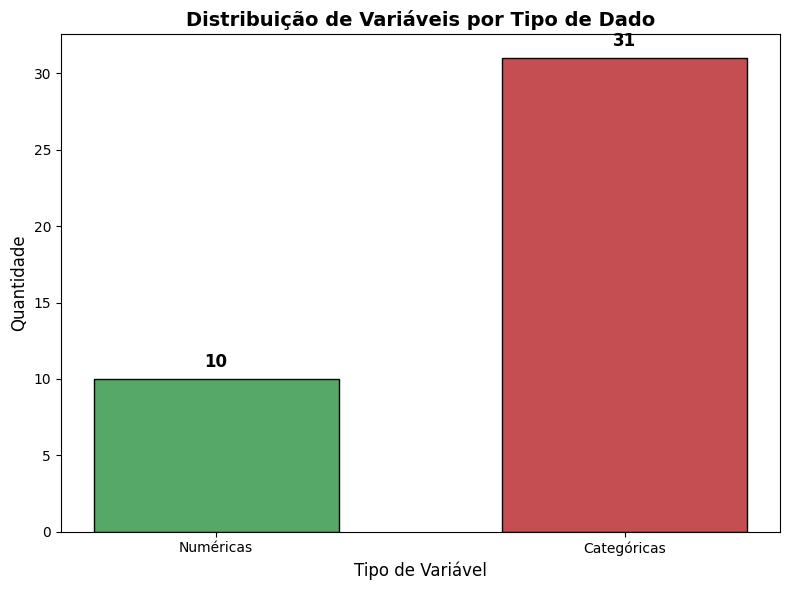
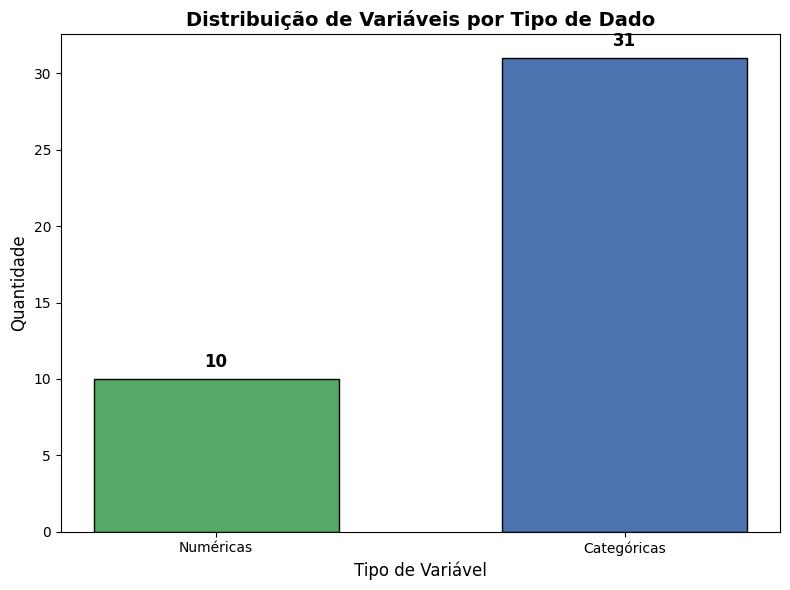
Refatoracao exploracao dados - zoom atributos com valores nulos

Changed region(s): [[0.638, 0.0915, 0.9722, 0.9153]]

diff --git a/pre-processamento/separacao_tipos.py b/pre-processamento/separacao_tipos.py
@@ -5,8 +5,11 @@ import matplotlib.pyplot as plt
 # 1. CONFIGURAÇÕES E CAMINHOS (Constantes)
 # ==========================================
 CAMINHO_ENTRADA = r'C:\Users\vitoria-vaz\estudos\UFU\projeto-graduacao\pg-amamentacao\dataset\dataset_amamentacao_filtrado.csv'
-CAMINHO_GRAFICO_NULOS = 'contagem_valores_nulos.jpg'
-CAMINHO_GRAFICO_TIPOS = 'contagem_tipos_dados.jpg' # Novo caminho adicionado
+
+# Nomes dos arquivos de imagem gerados
+CAMINHO_GRAFICO_NULOS_TODOS = 'contagem_valores_nulos_todos.jpg'
+CAMINHO_GRAFICO_NULOS_FILTRADOS = 'contagem_valores_nulos_filtrados.jpg'
+CAMINHO_GRAFICO_TIPOS = 'contagem_tipos_dados.jpg'
 
 # ==========================================
 # 2. CARREGAMENTO DOS DADOS E INFORMAÇÕES
@@ -20,36 +23,55 @@ print("\n" + "="*50 + "\n")
 # ==========================================
 # 3. ANÁLISE EXPLORATÓRIA: VALORES NULOS
 # ==========================================
-# Configurar o tamanho da figura
-plt.figure(figsize=(12, 6))
 
-# Criar o gráfico de barras ordenado
+# ---------------------------------------------------------
+# 3.1 Gráfico 1: Todos os atributos (Visão Geral)
+# ---------------------------------------------------------
+plt.figure(figsize=(12, 6))
 df.isnull().sum().sort_values(ascending=False).plot(kind='bar', color='#4C72B0', edgecolor='black')
 
-# Adicionar títulos e rótulos
-plt.title('Quantidade de Valores Nulos por Atributo', fontsize=14, fontweight='bold')
+plt.title('Quantidade de Valores Nulos (Todos os Atributos)', fontsize=14, fontweight='bold')
 plt.xlabel('Atributos', fontsize=12)
 plt.ylabel('Quantidade de Valores Nulos', fontsize=12)
 plt.xticks(rotation=90)
 
-# Ajustar layout para não cortar as margens
 plt.tight_layout() 
+plt.savefig(CAMINHO_GRAFICO_NULOS_TODOS, bbox_inches='tight')
+plt.close()
+print(f"Gráfico geral de nulos salvo como '{CAMINHO_GRAFICO_NULOS_TODOS}'!")
 
-# Gerar e salvar o gráfico
-plt.savefig(CAMINHO_GRAFICO_NULOS, bbox_inches='tight')
-plt.close() # Fechar a figura da memória
-print(f"Gráfico de valores nulos salvo com sucesso como '{CAMINHO_GRAFICO_NULOS}'!")
+# ---------------------------------------------------------
+# 3.2 Gráfico 2: Apenas atributos com valores nulos (Zoom)
+# ---------------------------------------------------------
+nulos_totais = df.isnull().sum()
+nulos_filtrados = nulos_totais[nulos_totais > 0].sort_values(ascending=False)
+
+plt.figure(figsize=(10, 6))
+ax = nulos_filtrados.plot(kind='bar', color='#C44E52', edgecolor='black')
+
+plt.title('Atributos que possuem Valores Nulos', fontsize=14, fontweight='bold')
+plt.xlabel('Atributos', fontsize=12)
+plt.ylabel('Quantidade de Valores Nulos', fontsize=12)
+plt.xticks(rotation=45, ha='right')
+
+# Adicionar os números exatos em cima de cada barra
+for p in ax.patches:
+    ax.annotate(f"{int(p.get_height())}", 
+                (p.get_x() + p.get_width() / 2., p.get_height()), 
+                ha='center', va='center', xytext=(0, 8), 
+                textcoords='offset points', fontsize=11, fontweight='bold')
+
+plt.tight_layout() 
+plt.savefig(CAMINHO_GRAFICO_NULOS_FILTRADOS, bbox_inches='tight')
+plt.close()
+print(f"Gráfico filtrado de nulos salvo como '{CAMINHO_GRAFICO_NULOS_FILTRADOS}'!")
 
 # ==========================================
 # 4. SEPARAÇÃO DOS TIPOS DE DADOS
 # ==========================================
-# 'number' isola variáveis int64 e float64
 cols_numericas = df.select_dtypes(include=['number']).columns.tolist()
-
-# 'object', 'category' e 'bool' isolam as variáveis categóricas
 cols_categoricas = df.select_dtypes(include=['object', 'category', 'bool']).columns.tolist()
 
-# Exibir os resultados da separação
 print("\n" + "-" * 50)
 print(f"Total de Variáveis Numéricas: {len(cols_numericas)}")
 print(cols_numericas)
@@ -61,17 +83,12 @@ print("-" * 50)
 # ==========================================
 # 5. ANÁLISE EXPLORATÓRIA: GRÁFICO DOS TIPOS
 # ==========================================
-# Preparar os dados para o gráfico
 quantidades = [len(cols_numericas), len(cols_categoricas)]
 nomes_tipos = ['Numéricas', 'Categóricas']
 
-# Configurar o tamanho da figura
 plt.figure(figsize=(8, 6))
+barras = plt.bar(nomes_tipos, quantidades, color=['#55A868', '#4C72B0'], edgecolor='black', width=0.6)
 
-# Criar o gráfico de barras
-barras = plt.bar(nomes_tipos, quantidades, color=['#55A868', '#C44E52'], edgecolor='black', width=0.6)
-
-# Adicionar títulos e rótulos
 plt.title('Distribuição de Variáveis por Tipo de Dado', fontsize=14, fontweight='bold')
 plt.xlabel('Tipo de Variável', fontsize=12)
 plt.ylabel('Quantidade', fontsize=12)
@@ -82,8 +99,7 @@ for barra in barras:
     plt.text(barra.get_x() + barra.get_width()/2., altura + 0.5,
              f'{int(altura)}', ha='center', va='bottom', fontsize=12, fontweight='bold')
 
-# Ajustar layout e salvar
 plt.tight_layout() 
 plt.savefig(CAMINHO_GRAFICO_TIPOS, bbox_inches='tight')
 plt.close()
-print(f"Gráfico de contagem de tipos salvo com sucesso como '{CAMINHO_GRAFICO_TIPOS}'!")
+print(f"Gráfico de contagem de tipos salvo como '{CAMINHO_GRAFICO_TIPOS}'!")
